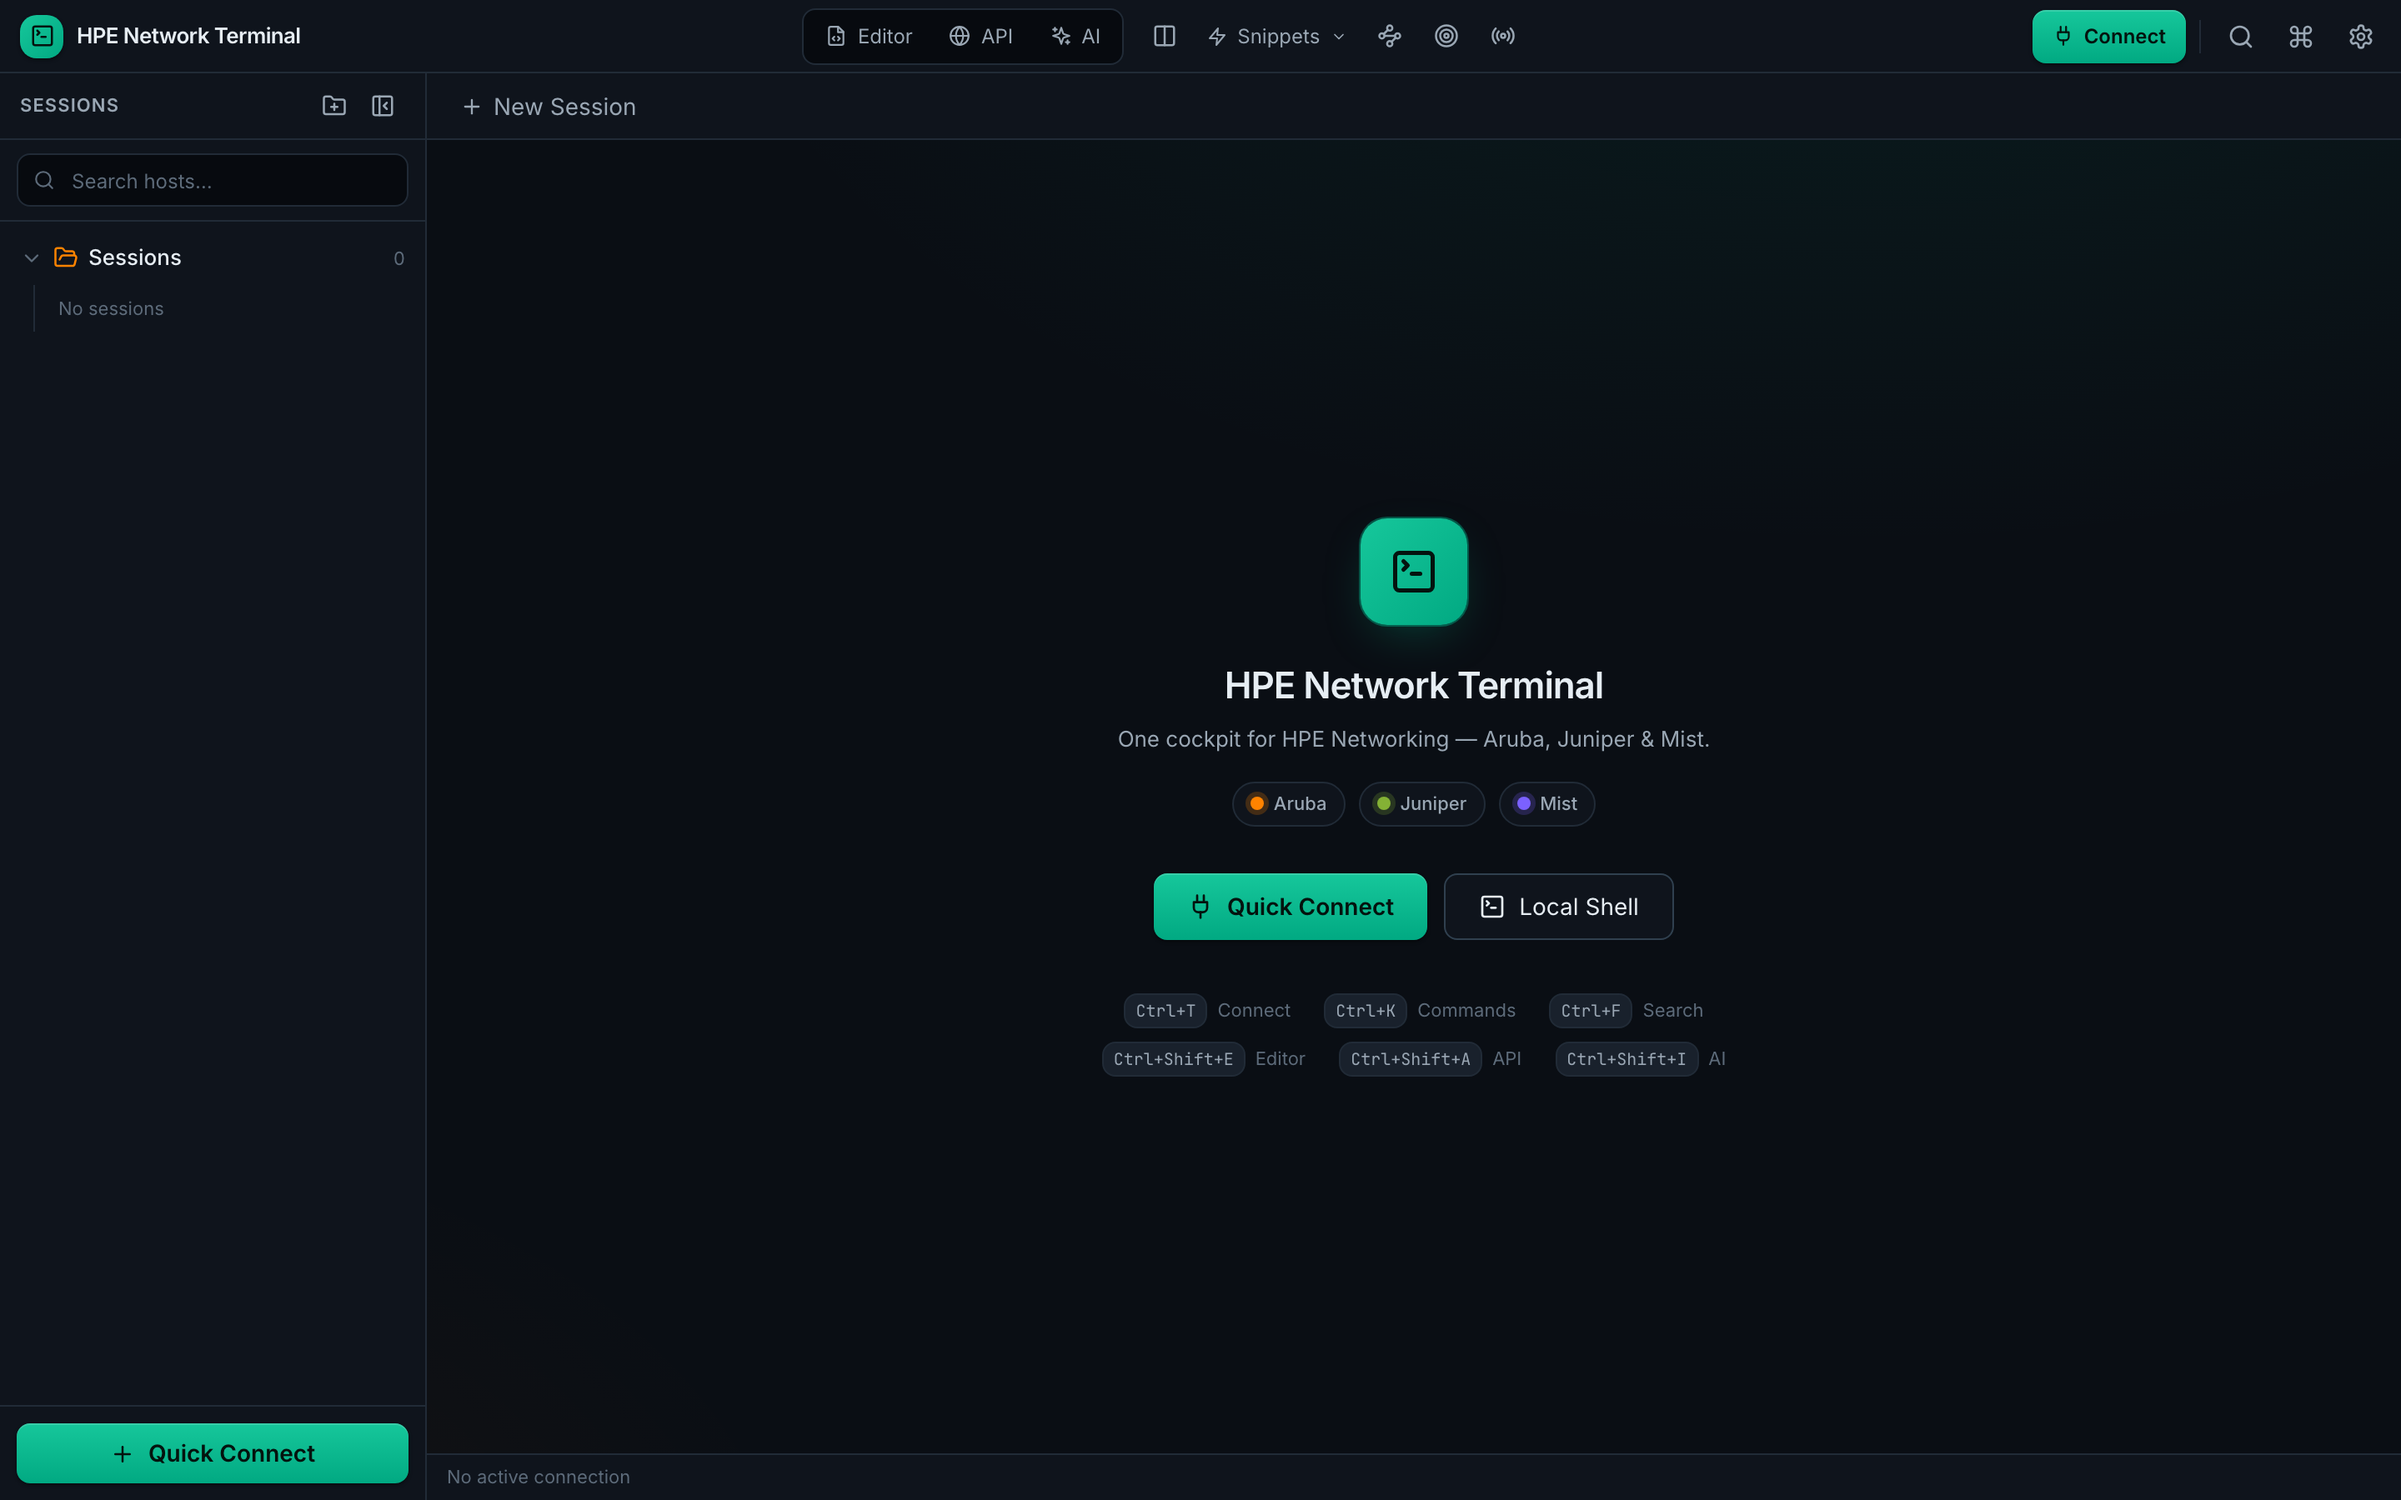
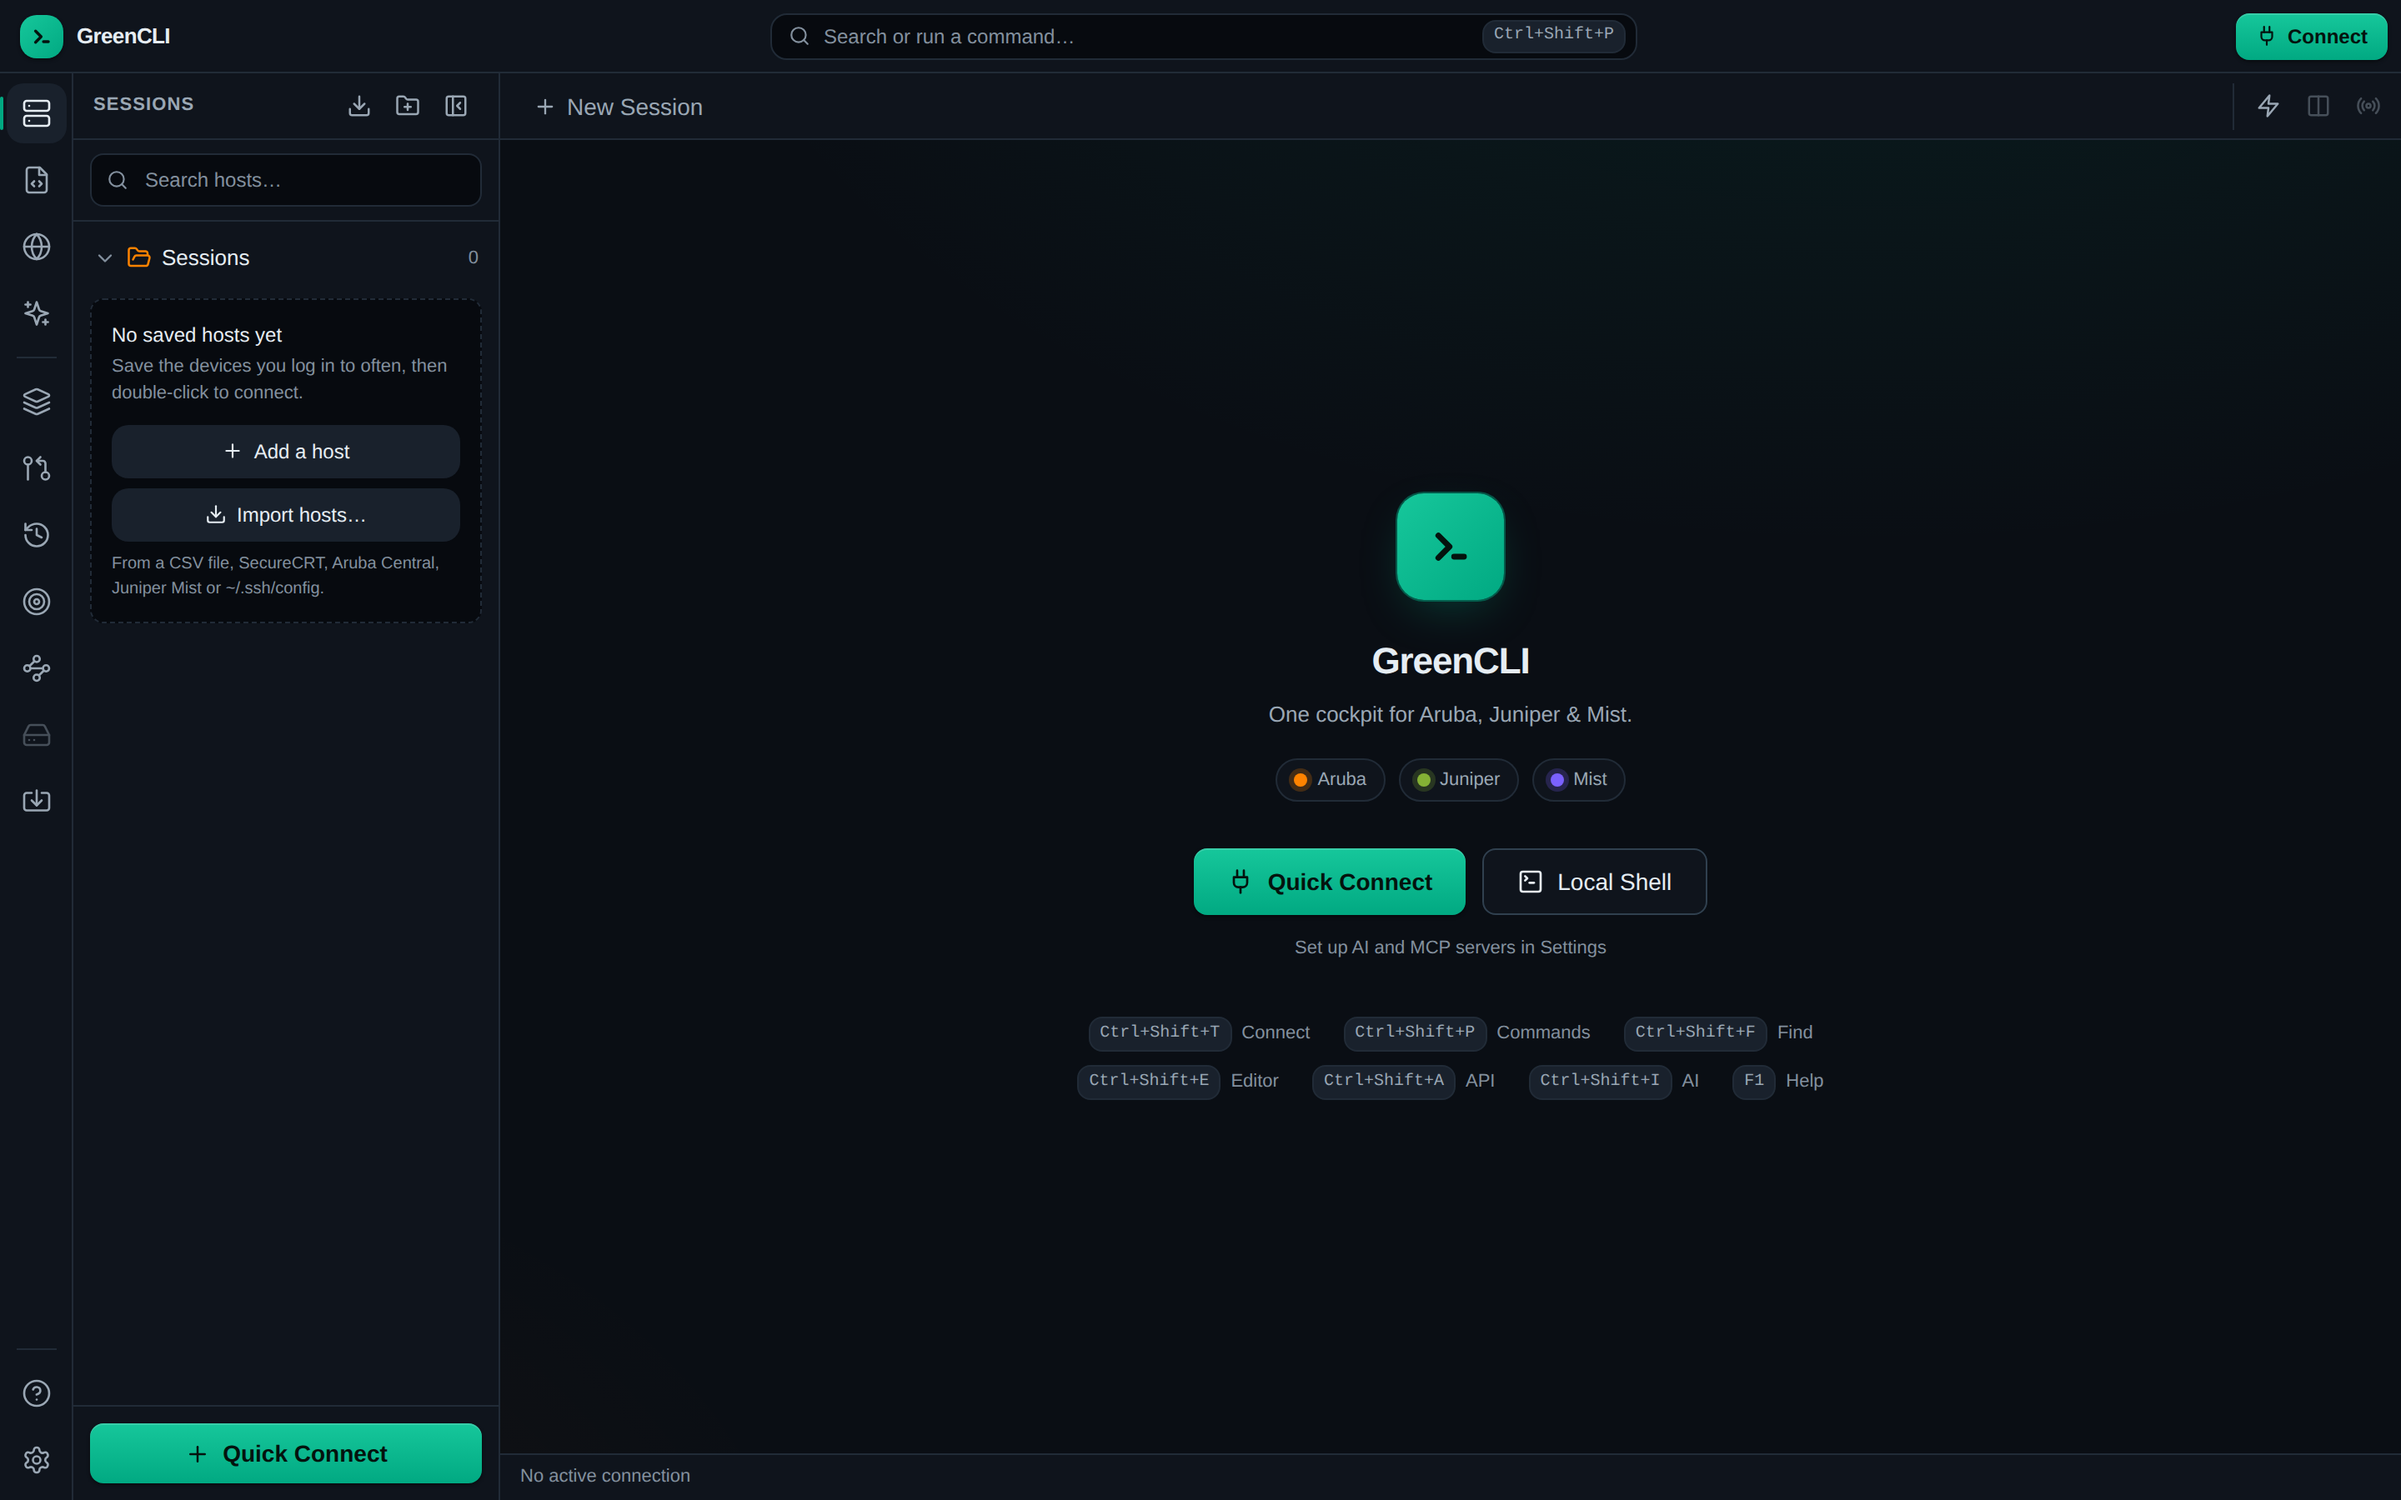
docs: new-layout screenshots and changelog; Network Intent header fix
- Regenerated docs/screenshots with the new layout and GreenCLI name.
- capture-screenshots.mjs: dark theme, skips the first-run Help popup,
  opens Network Intent from the activity bar and Settings by group, and
  takes SHOT_CHROMIUM for an already-installed Chromium.
- CHANGELOG: a Changed section for the layout; Change Jobs and Shared
  logins point at their new places.
- SETUP.md and the API Explorer's Mist hint use the new Settings names.
- Network Intent: a wider window and no wrapping, so the header's
  "Evaluate all" / "0 connected" stay on one line.

Claude-Session: https://claude.ai/code/session_01QKTeRhth91FHpzJodzS9gd

diff --git a/src/components/IntentPanel.tsx b/src/components/IntentPanel.tsx
@@ -210,20 +210,20 @@ export default function IntentPanel() {
         if (e.target === e.currentTarget) setShowIntent(false);
       }}
     >
-      <div className="surface-elevated w-[680px] max-w-[95vw] h-[80vh] flex flex-col animate-scale-in">
+      <div className="surface-elevated w-[760px] max-w-[95vw] h-[80vh] flex flex-col animate-scale-in">
         {/* Header */}
         <div className="flex items-center gap-2.5 px-5 py-4 border-b border-[var(--border)]">
           <div className="flex items-center justify-center w-7 h-7 rounded-md" style={{ background: 'var(--accent-soft)' }}>
             <Target size={15} style={{ color: 'var(--accent)' }} />
           </div>
-          <h2 className="text-[16px] font-semibold text-[var(--text-primary)]">Network Intent</h2>
+          <h2 className="text-[16px] font-semibold text-[var(--text-primary)] whitespace-nowrap">Network Intent</h2>
           {violations > 0 && (
             <span className="text-[11px] px-2 py-0.5 rounded-full" style={{ background: 'var(--accent-danger-soft)', color: 'var(--accent-danger)' }}>
               {violations} violation{violations > 1 ? 's' : ''}
             </span>
           )}
           <span className="flex-1" />
-          <span className="text-[11px] text-[var(--text-muted)]">{connectedCount} connected</span>
+          <span className="text-[11px] text-[var(--text-muted)] shrink-0 whitespace-nowrap">{connectedCount} connected</span>
           <span
             className="flex items-center gap-1 text-[11px] shrink-0 whitespace-nowrap"
             style={{ color: intentScheduling ? 'var(--accent-success)' : 'var(--text-muted)' }}
@@ -236,14 +236,14 @@ export default function IntentPanel() {
             {intentScheduling ? <RefreshCw size={11} /> : <Clock size={11} />}
             {intentScheduling ? `Auto-evaluate every ${intentScheduleMinutes} min` : 'Manual only'}
           </span>
-          <button onClick={runAll} disabled={running !== null} className="btn-accent flex items-center gap-1.5 h-8 px-3 text-[12px] disabled:opacity-50">
+          <button onClick={runAll} disabled={running !== null} className="btn-accent flex shrink-0 items-center gap-1.5 h-8 px-3 text-[12px] whitespace-nowrap disabled:opacity-50">
             {running === '*' ? <Loader2 size={13} className="animate-spin" /> : <Play size={13} />}
             Evaluate all
           </button>
-          <button onClick={() => setShowPacks((v) => !v)} className="flex items-center gap-1.5 h-8 px-2.5 text-[12px] rounded-md bg-[var(--bg-tertiary)] hover:bg-[var(--border-strong)] text-[var(--text-primary)]" title="Add a validated-design assurance pack">
+          <button onClick={() => setShowPacks((v) => !v)} className="flex shrink-0 items-center gap-1.5 h-8 px-2.5 text-[12px] whitespace-nowrap rounded-md bg-[var(--bg-tertiary)] hover:bg-[var(--border-strong)] text-[var(--text-primary)]" title="Add a validated-design assurance pack">
             <LayoutTemplate size={13} /> Templates
           </button>
-          <button onClick={startAdd} className="flex items-center gap-1.5 h-8 px-2.5 text-[12px] rounded-md bg-[var(--bg-tertiary)] hover:bg-[var(--border-strong)] text-[var(--text-primary)]">
+          <button onClick={startAdd} className="flex shrink-0 items-center gap-1.5 h-8 px-2.5 text-[12px] whitespace-nowrap rounded-md bg-[var(--bg-tertiary)] hover:bg-[var(--border-strong)] text-[var(--text-primary)]">
             <Plus size={13} /> Add
           </button>
           <button onClick={() => setShowIntent(false)} className="p-1.5 rounded-md text-[var(--text-secondary)] hover:text-[var(--text-primary)] hover:bg-[var(--bg-tertiary)]">

diff --git a/src/components/ApiExplorer.tsx b/src/components/ApiExplorer.tsx
@@ -657,7 +657,7 @@ export default function ApiExplorer() {
       {/* Mist hint */}
       {target === 'mist' && (
         <div className="px-3 py-2 border-b border-[var(--bg-tertiary)] bg-[var(--bg-secondary)] text-[10px] text-[var(--text-muted)]">
-          Uses the API token from <span className="text-[var(--text-secondary)]">Settings → Juniper Mist</span>. Replace
+          Uses the API token from <span className="text-[var(--text-secondary)]">Settings → Integrations → Juniper Mist</span>. Replace
           <code className="text-[var(--accent)] mx-1">{'{org_id}'}</code>/
           <code className="text-[var(--accent)] mx-1">{'{site_id}'}</code>in paths (run "Whoami" first to find them).
         </div>

diff --git a/CHANGELOG.md b/CHANGELOG.md
@@ -9,14 +9,14 @@ and this project adheres to [Semantic Versioning](https://semver.org/spec/v2.0.0
 
 ### Added
 
-- **Change Jobs** (Tools / command palette): push one config block to many
+- **Change Jobs** (activity bar / command palette): push one config block to many
   devices picked by folder, tag, host or open tab, with `${var}` values per
   device from a CSV. A dry run shows exactly what each device gets; the job
   runs on one canary device and waits for your OK before the rest; it stops
   at the first device error, takes before/after config snapshots with a diff,
   and wraps changes in Junos `commit confirmed` / AOS-CX `checkpoint auto` so
   an unconfirmed change rolls itself back. Results grid with CSV export.
-- **Shared logins** (Settings → Logins): one saved login (e.g. your TACACS
+- **Shared logins** (Settings → Connections & Security): one saved login (e.g. your TACACS
   account) used by many hosts — set it as a folder's default, override per
   host. Changing its password once updates every device that uses it. Jump
   hosts can use a login or a vaulted password; jump auth gains
@@ -46,6 +46,26 @@ and this project adheres to [Semantic Versioning](https://semver.org/spec/v2.0.0
 - "System" theme that follows macOS / Windows; Option-as-Meta setting on Mac;
   right-click Copy & Paste / Find selection / Save scrollback; pop-out
   windows get a header with status, Reconnect, Find and Dock.
+
+### Changed
+
+- **New layout.** An activity bar down the left side replaces the Tools menu:
+  one click opens Sessions, Editor, API, AI, Bulk Runner, Change Jobs, Config
+  Archive, Network Intent, SSH Tunnels, SFTP or Import Hosts, with Help and
+  Settings at the bottom. Hover shows the name and shortcut; small badges show
+  dropped sessions, failed intents, busy AI/API and unsaved editor changes.
+- **One side panel** holds Editor, API and AI as tabs. Switching tabs or
+  closing the panel keeps your work (unsaved editor text, a half-built API
+  request, the chat). It can be maximized; Ctrl/⌘+Shift+E/A/I switch to a
+  tab or close it. Editor, API and AI can no longer be open side by side.
+- **Simpler title bar**: the brand, a "Search or run a command…" field that
+  opens the command palette, and Connect. Split view, Multi-send and Snippets
+  moved to the right end of the tab strip.
+- **Settings** are grouped by task (Appearance · Terminal · Connections &
+  Security · Automation · AI & MCP · Integrations · Backup & Reset) and have a
+  search box; Help and Settings share one window style.
+- Network Intent's header no longer wraps its buttons onto two lines.
+- Documentation screenshots show the new layout and name.
 
 ### Fixed
 

diff --git a/docs/SETUP.md b/docs/SETUP.md
@@ -171,7 +171,7 @@ their tools to the AI for **every** provider. Two transports:
   centralmcp's `run_http_router.sh`); one process can then serve multiple
   clients/machines instead of being spawned per launch.
 
-Settings → **AI + MCP → MCP Servers** (or header **Tools → MCP**) → *Add server*. Click **Paste config JSON instead**
+Settings → **AI & MCP → MCP Servers** (or the command palette: *MCP Servers*) → *Add server*. Click **Paste config JSON instead**
 to auto-fill from a setup wizard / Claude-Desktop-style snippet — either a
 bare `{"command": "...", "args": [...]}` / `{"url": "..."}` object, or the
 same wrapped in `{"mcpServers": {"name": {...}}}`. Otherwise, fill in by hand:
